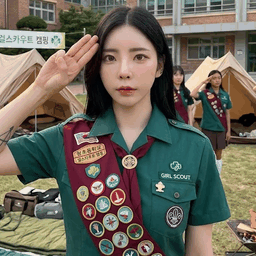
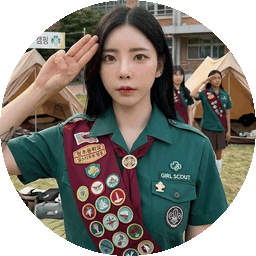
fix: 찌킹단 / 섹시테란 엠블럼에 원형 마스크 적용
기존 5종은 256x256 내접원 + 투명 모서리(팔레트 tRNS)인데 신규 2종만
정사각 이미지라 목록에서 혼자 네모로 보였다. 동일 규격으로 다시 굽고,
테스트에서 EMBLEM_IMAGES 전 키의 PNG 크기와 tRNS 청크를 검사한다.

에셋 버전 202607280610.

diff --git a/tests/renewal-guild.test.js b/tests/renewal-guild.test.js
@@ -1,5 +1,5 @@
 import assert from 'node:assert/strict';
-import { access, readFile } from 'node:fs/promises';
+import { readFile } from 'node:fs/promises';
 import { EMBLEM_IMAGES } from '../src/renewal/guild-emblem.js';
 import { GAME_COMMAND_TYPES, validateGameCommand } from '../src/renewal/service-contract.js';
 import { GUILD_RULES, guildLevelFor } from '../src/renewal/config.js';
@@ -350,8 +350,13 @@ assert.match(emblemSource, /calmsnal: `assets\/renewal\/guild\/emblems\/calmsnal
 assert.match(emblemSource, /jjiking: `assets\/renewal\/guild\/emblems\/jjiking\.png\?v=/);
 assert.match(emblemSource, /sexyterran: `assets\/renewal\/guild\/emblems\/sexyterran\.png\?v=/);
 // 화이트리스트에 키만 추가하고 파일을 안 올리면 깨진 이미지가 뜬다. 실제 파일 존재를 함께 잠근다.
+// 규격도 같이 본다. 엠블럼은 256x256 원형 마스크(투명 모서리)라 정사각 이미지를 그대로 올리면
+// 목록에서 혼자 네모로 튄다. PNG 헤더의 IHDR 크기와 tRNS(투명도) 청크 유무로 검사한다.
 for (const key of Object.keys(EMBLEM_IMAGES)) {
-  await access(new URL(`../assets/renewal/guild/emblems/${key}.png`, import.meta.url));
+  const png = await readFile(new URL(`../assets/renewal/guild/emblems/${key}.png`, import.meta.url));
+  assert.equal(png.readUInt32BE(16), 256, `${key}.png 너비는 256 이어야 한다`);
+  assert.equal(png.readUInt32BE(20), 256, `${key}.png 높이는 256 이어야 한다`);
+  assert.ok(png.includes('tRNS'), `${key}.png 에 원형 마스크(투명 영역)가 없다`);
 }
 assert.match(
   emblemSource,

diff --git a/src/renewal/guild-emblem.js b/src/renewal/guild-emblem.js
@@ -11,7 +11,7 @@ export const EMBLEM_GLYPHS = Object.freeze({
 // gacha_s2_guild_emblems 행 삽입 + 여기 한 줄이면 된다.
 // 파일명을 그대로 두고 이미지를 교체하면(크롭 조정 등) 브라우저가 옛 파일을 계속 쓴다.
 // 그래서 경로에 버전을 붙인다. 이미지를 새로 만들 때마다 이 값을 올릴 것.
-const EMBLEM_ASSET_VERSION = '202607280555';
+const EMBLEM_ASSET_VERSION = '202607280610';
 
 export const EMBLEM_IMAGES = Object.freeze({
   ilsin: `assets/renewal/guild/emblems/ilsin.png?v=${EMBLEM_ASSET_VERSION}`,
